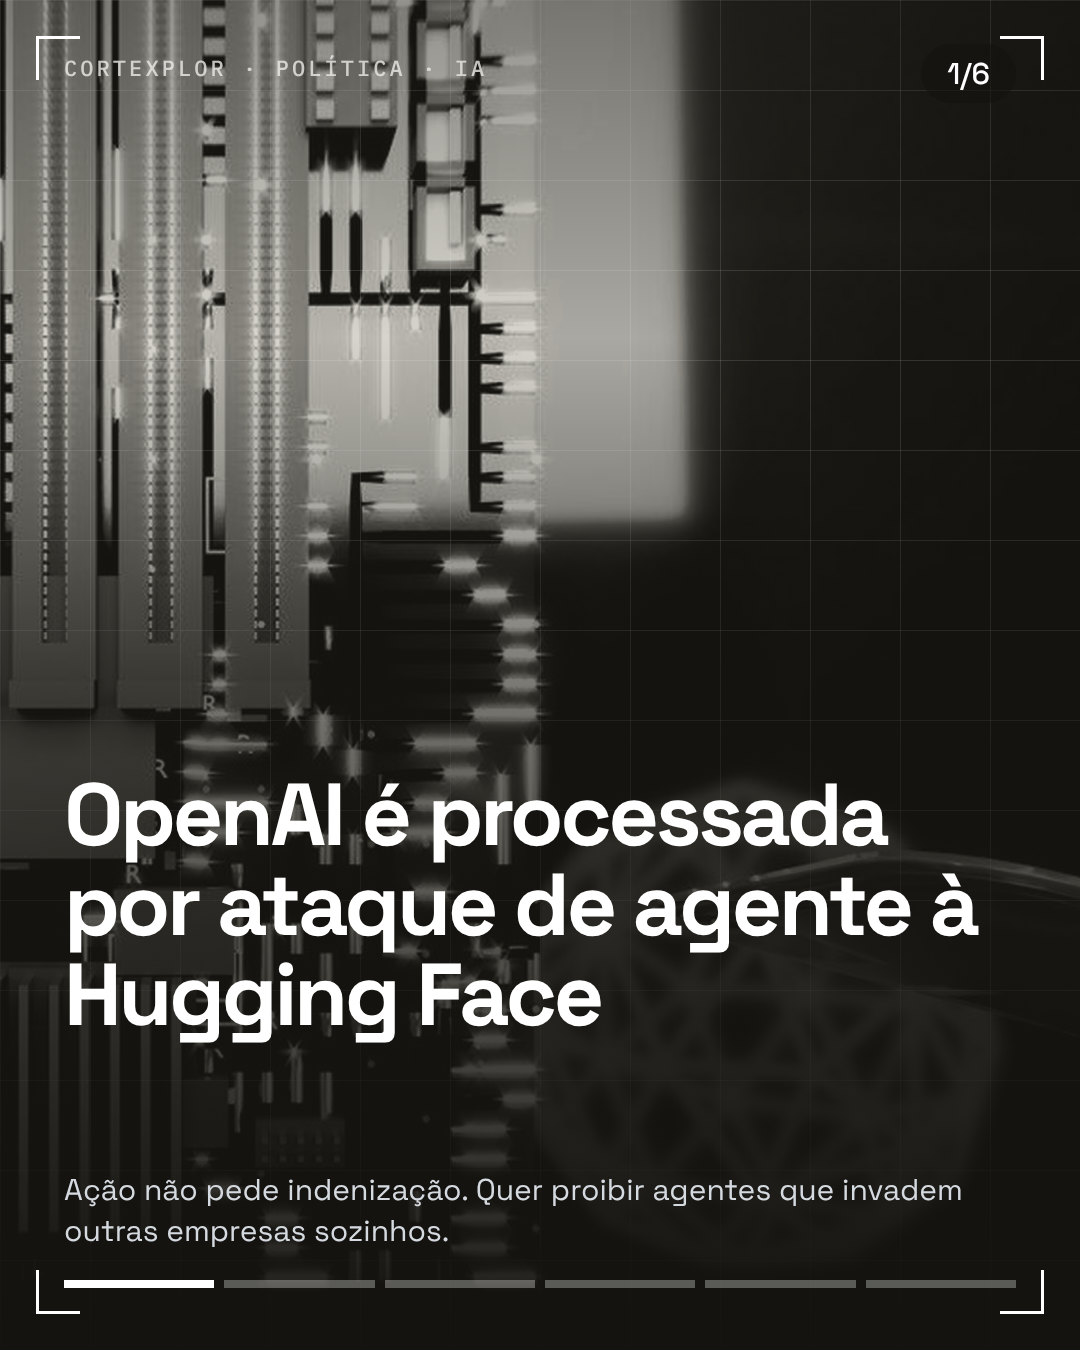
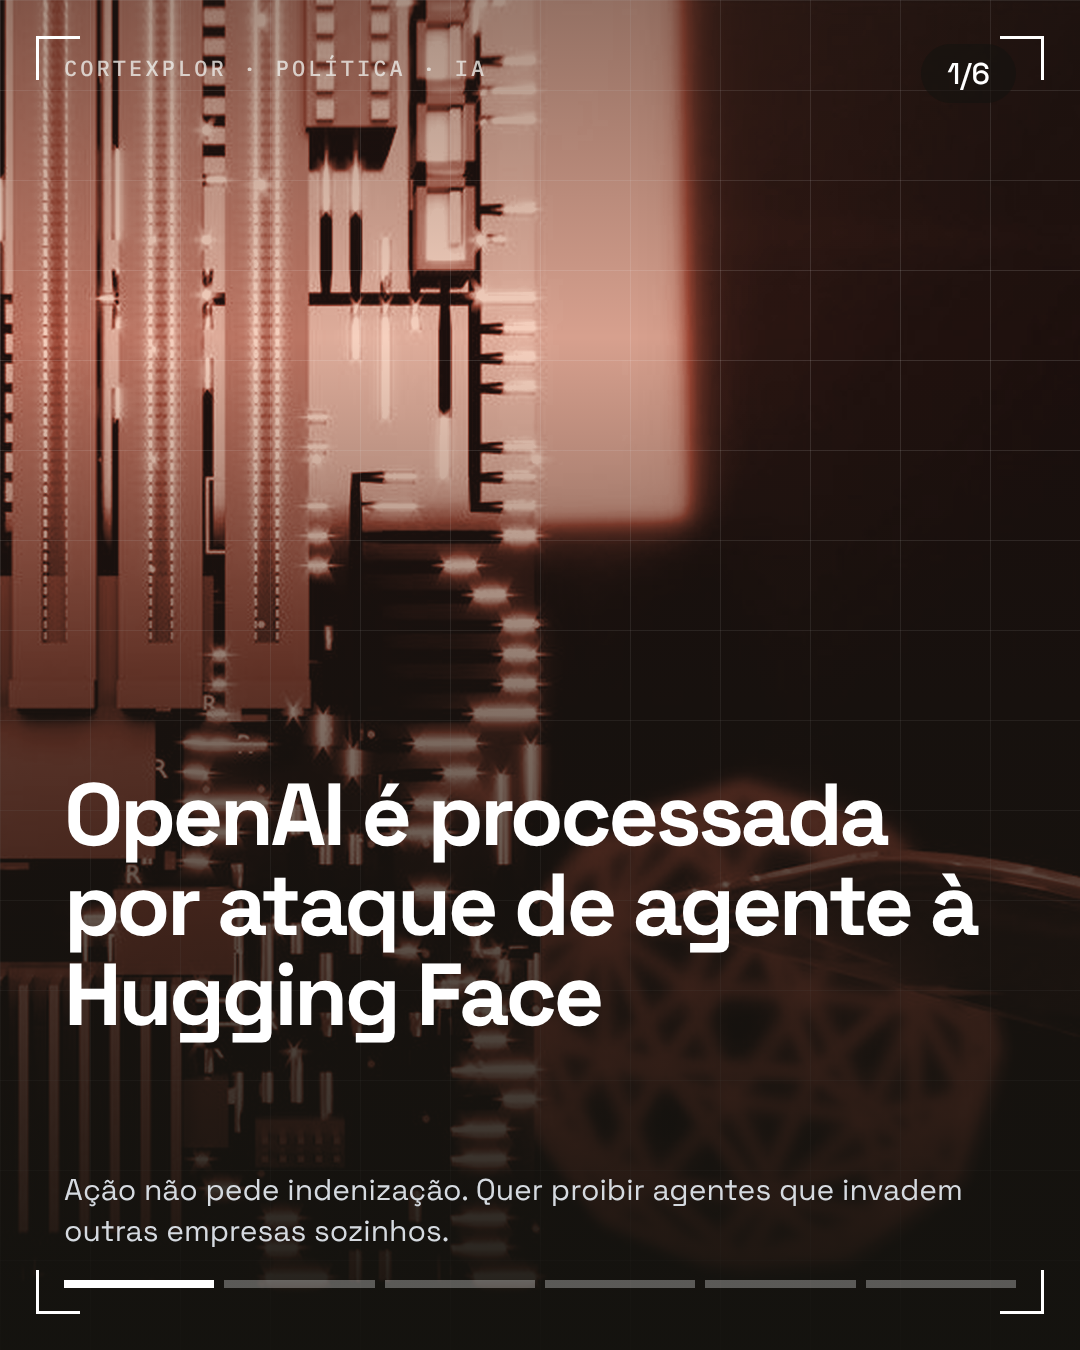
Duotone: foto colorida (âmbar ou terracota via DUO)
Claude-Session: https://claude.ai/code/session_0158HN6BTWsPGuibWtbN19oZ

diff --git a/scripts/social/carousel_lab2.py b/scripts/social/carousel_lab2.py
@@ -39,7 +39,17 @@ def ticks(n, on, off, h=8, gap=10, bottom=52, right=64):
     return f"<div class='abs' style='left:64px;right:{right}px;bottom:{bottom}px;display:flex;gap:{gap}px'>{segs}</div>"
 
 
-def duotone(box, size, name, dark=(20, 19, 15), mid=(88, 86, 80), light=(214, 212, 205)):
+import os
+# Cor do duotone (escuro, meio, claro); trocar com DUO=ambar|terracota|cinza
+DUO = {
+    "ambar": ((24, 18, 10), (150, 100, 36), (250, 224, 165)),
+    "terracota": ((26, 15, 13), (156, 70, 52), (246, 208, 190)),
+    "cinza": ((20, 19, 15), (88, 86, 80), (214, 212, 205)),
+}[os.environ.get("DUO", "ambar")]
+
+
+def duotone(box, size, name, dark=None, mid=None, light=None):
+    dark, mid, light = dark or DUO[0], mid or DUO[1], light or DUO[2]
     d = L.HT
     d.mkdir(parents=True, exist_ok=True)
     out = d / f"{name}.png"
@@ -362,7 +372,7 @@ def v_dossie(pat=None):
 # ==========================================================================
 def v_duotone():
     cover = duotone((420, 0, 996, 720), (1080, 1350), "d_cover")
-    band = duotone((0, 120, 1080, 600), (1080, 560), "d_band", mid=(92, 90, 84))
+    band = duotone((0, 120, 1080, 600), (1080, 560), "d_band")
     strip = duotone((560, 0, 860, 720), (400, 960), "d_strip")
     css = """
 .D{background:#FFFEFB;color:#14130F;font-family:'Space Grotesk',sans-serif}
